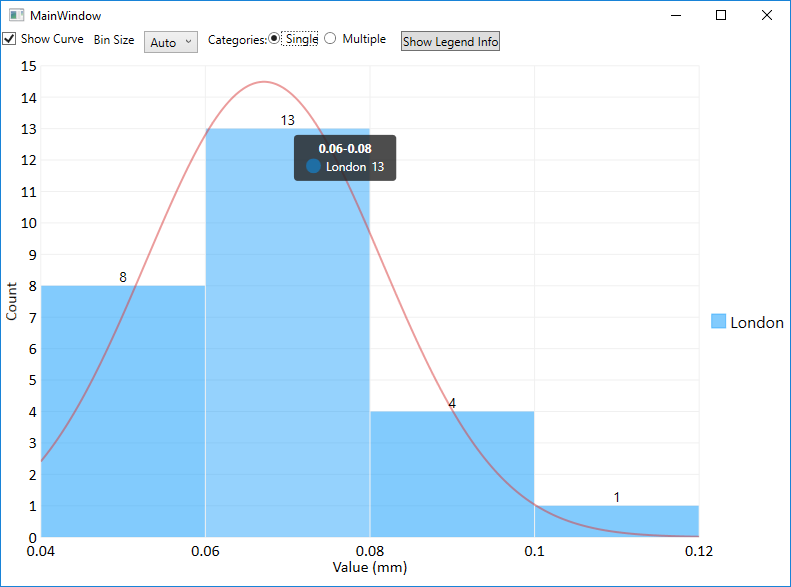
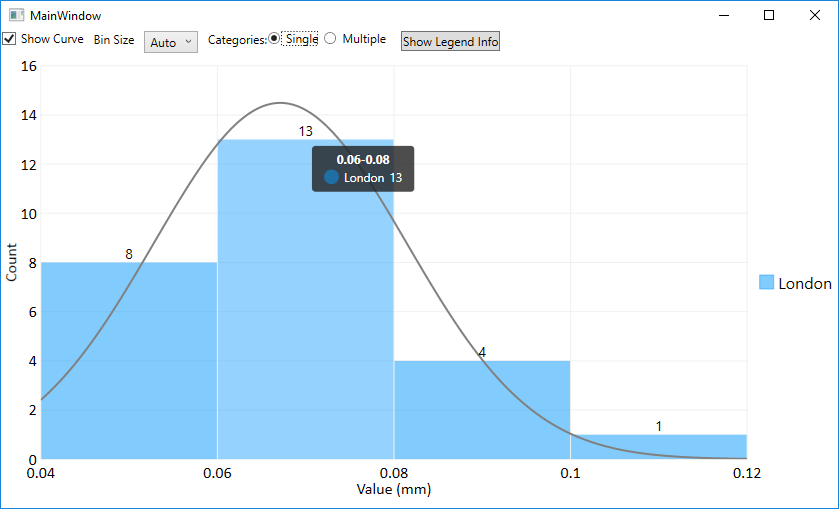
update bell curve UI

diff --git a/WpfSimpleHistogram/Histogram.xaml b/WpfSimpleHistogram/Histogram.xaml
@@ -24,7 +24,7 @@
         </Style>
         <lvc:Separator x:Key="cvSeparator"/>
     </UserControl.Resources>
-    <lvc:CartesianChart x:Name="chart" Series="{Binding SeriesCollection}" DataClick="chart_DataClick" LegendLocation="Right" UpdaterTick="chart_UpdaterTick">
+    <lvc:CartesianChart x:Name="chart" Series="{Binding SeriesCollection}" DataClick="chart_DataClick" LegendLocation="Right" UpdaterTick="chart_UpdaterTick" ToolTipOpening="chart_ToolTipOpening">
         <lvc:CartesianChart.AxisX>
             <lvc:Axis Title="" Labels="{Binding Labels}" ShowLabels="False"></lvc:Axis>
             <lvc:Axis x:Name="curveAxis" Title="{Binding XLabel}" Labels="{Binding CurveAxisLabels}" Separator="{StaticResource cvSeparator}"></lvc:Axis>

diff --git a/WpfSimpleHistogram/Model/HistogramViewModel.cs b/WpfSimpleHistogram/Model/HistogramViewModel.cs
@@ -249,13 +249,16 @@ namespace WpfSimpleHistogram.Model
             var lineSeries = new LineSeries()
             {
                 Values = new ChartValues<double>(bLabels.Select(v => GetGaussian(v, a, u, stdDev, (double)(bins[0].Right - bins[0].Left), (double)allValues.Count()))),
+                Title = "",
                 ScalesXAt = 1,
                 LineSmoothness = 1, //smooth
                 PointGeometry = null,
                 Fill = Brushes.Transparent,
+                Stroke = Brushes.Gray,
+                StrokeThickness = 2,
+                LabelPoint = o => ((double)o.Instance).ToString("0.00"),
             };
             lineSeries.SetBinding(LineSeries.VisibilityProperty, new Binding("BellCurveVisibility") { Source = this });
-
             SeriesCollection.Add(lineSeries);
         }
 

diff --git a/WpfSimpleHistogram/CustomLegend.xaml.cs b/WpfSimpleHistogram/CustomLegend.xaml.cs
@@ -17,7 +17,7 @@ namespace WpfSimpleHistogram
             get { return _series; }
             set
             {
-                _series = value == null ? null : value.Where(s => s.Title != "Series").ToList();
+                _series = value == null ? null : value.Where(s => s.Title != "").ToList();
                 OnPropertyChanged("Series");
             }
         }

diff --git a/WpfSimpleHistogram/Histogram.xaml.cs b/WpfSimpleHistogram/Histogram.xaml.cs
@@ -160,5 +160,10 @@ namespace WpfSimpleHistogram
         {
             return (this.DataContext as HistogramViewModel).GetLegendInfo();
         }
+
+        private void chart_ToolTipOpening(object sender, ToolTipEventArgs e)
+        {
+
+        }
     }
 }
